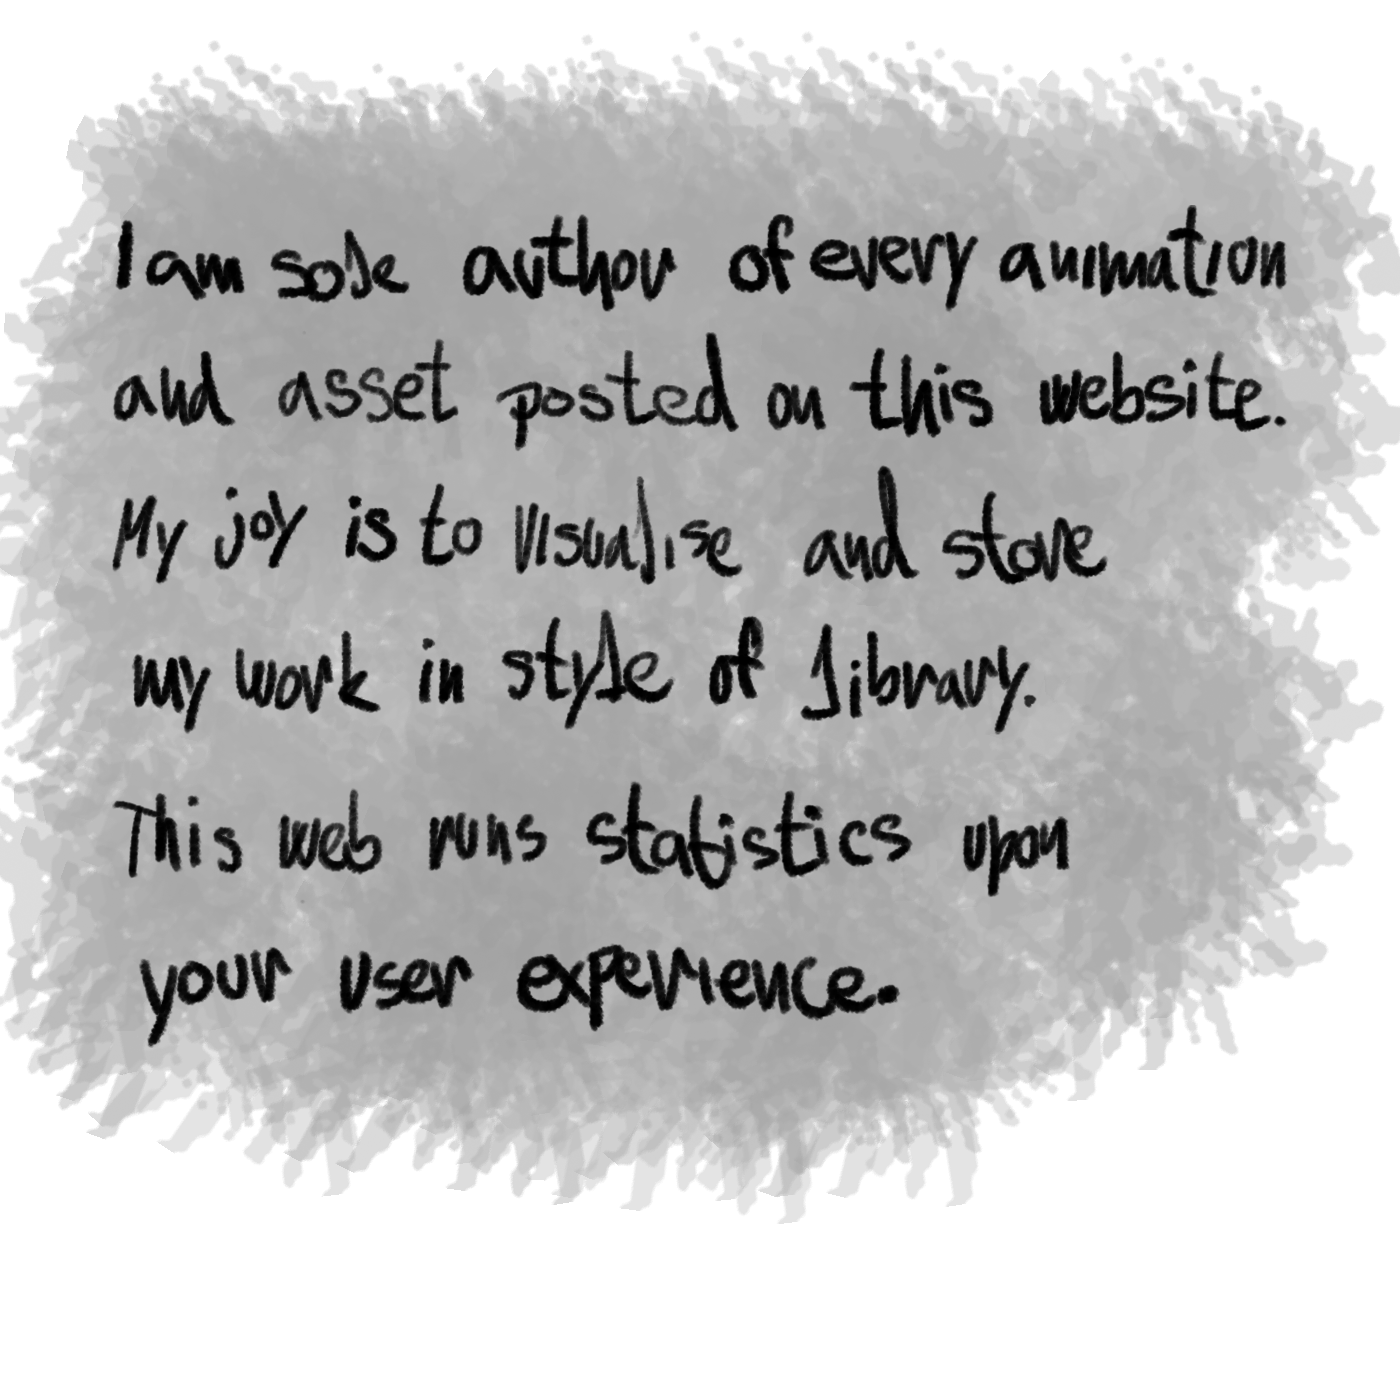
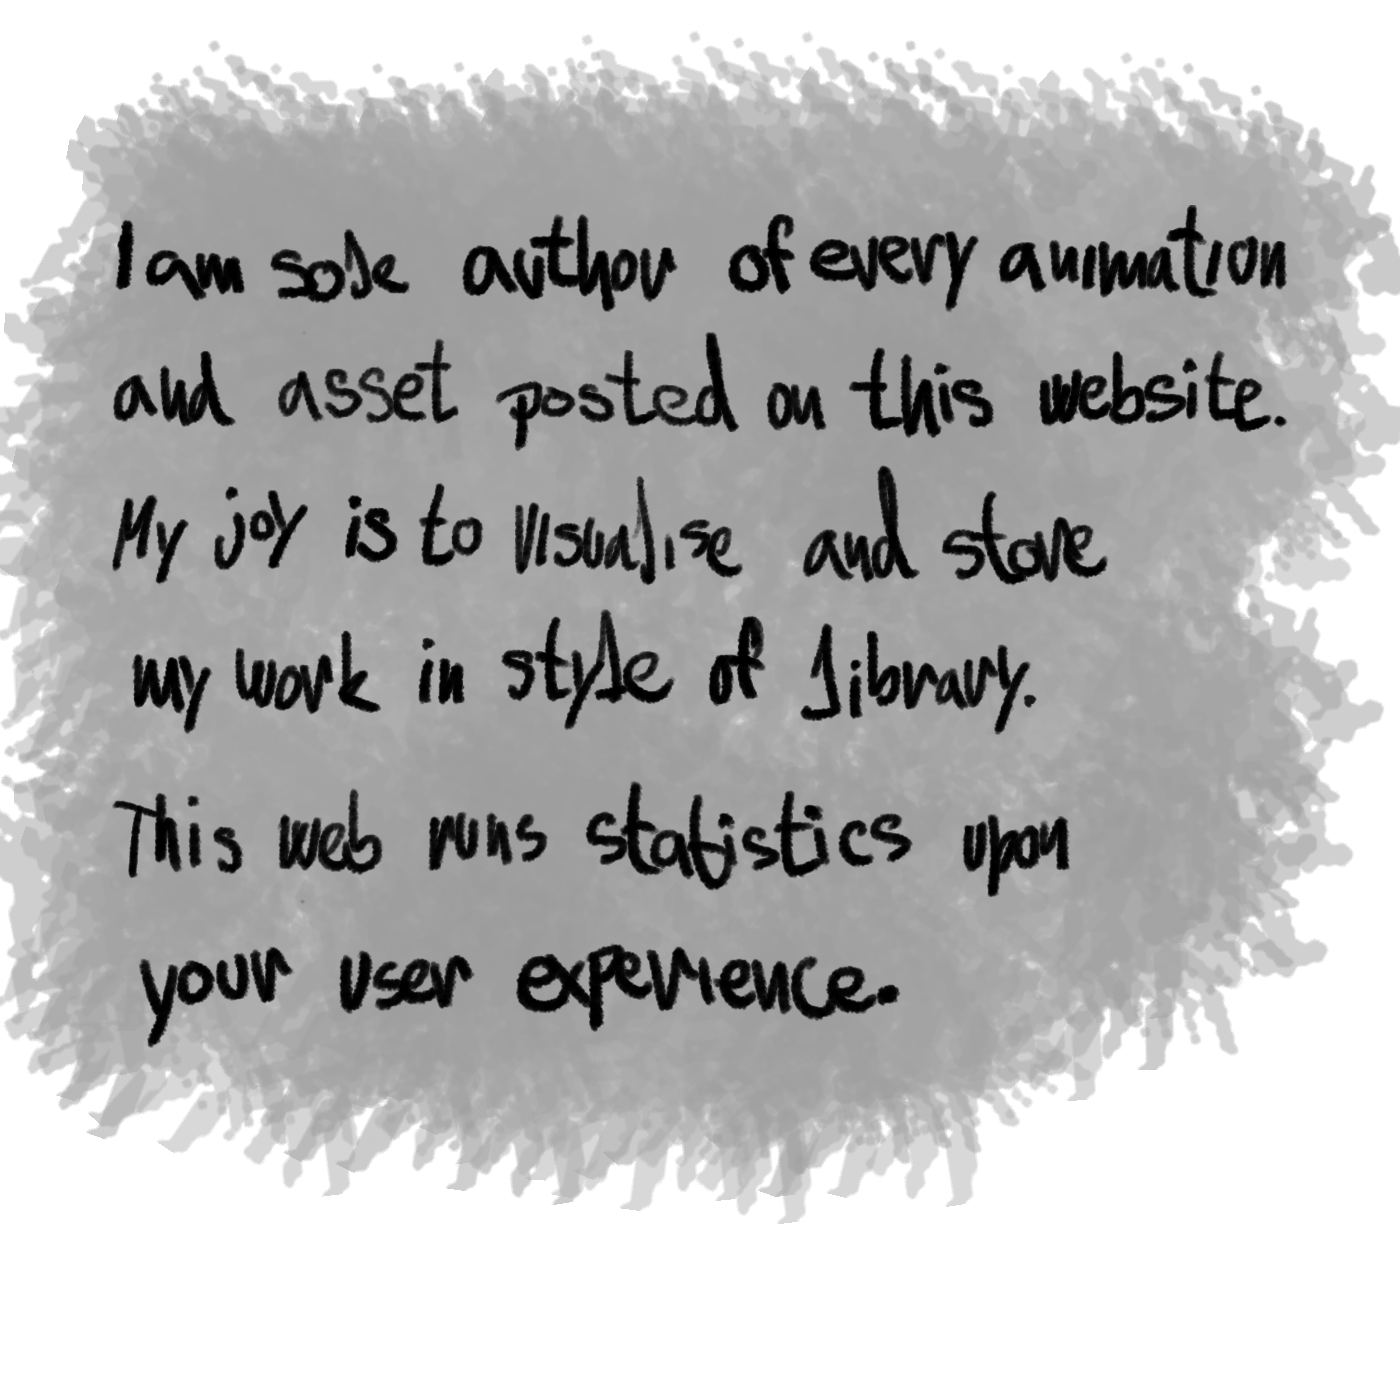
Update portfolio

diff --git a/index.html b/index.html
@@ -244,13 +244,13 @@
 
           const viewportHeight = window.innerHeight || 900;
           const forcescaleGap = 0.25;
-          const targetRows = 6;
+          const targetRows = 5;
           const rowHeight = (1 + forcescaleGap) * viewportHeight / (targetRows);
           const squareSize = rowHeight; 
           const itemGap = squareSize * 0.2;
           const rowGap = rowHeight * (-forcescaleGap + 0.03);
-          const rowDurations = [41, 130, 90, 300, 246, 32];
-          const rowDelays = [0, -70, -50, -20, -40, -10];
+          const rowDurations = [30, 130, 90, 300, 246, 32];
+          const rowDelays = [0, -300, -50, 0, -40, -10];
 
           marquee.innerHTML = '';
 
